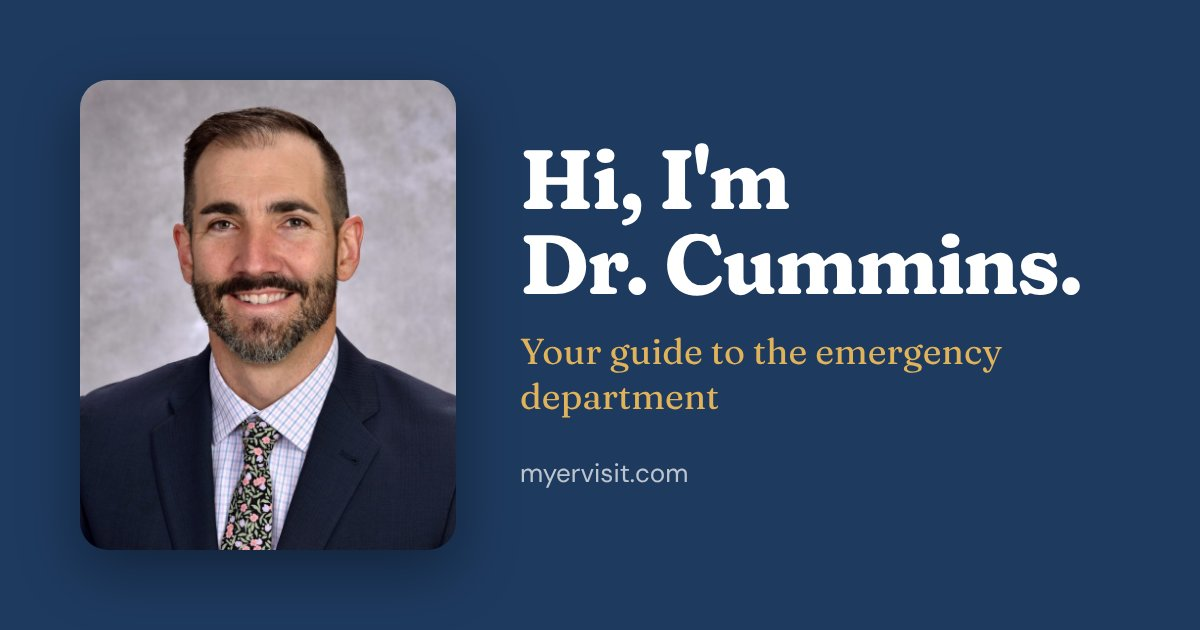
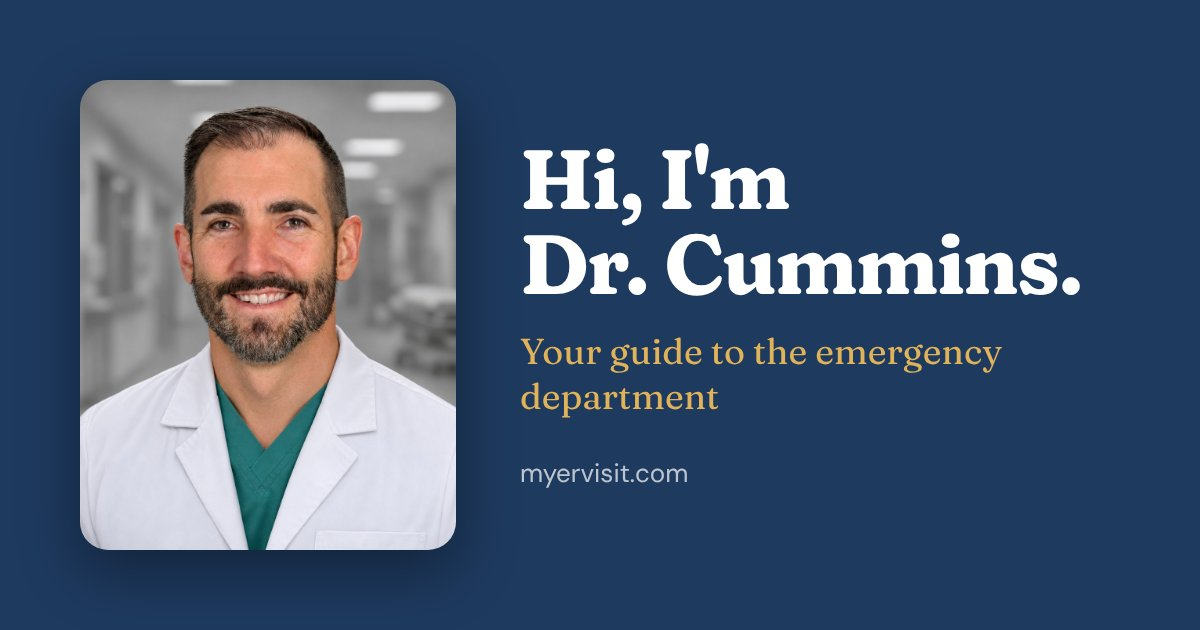
Use the scrubs photo on the homepage, About page and share image
Claude-Session: https://claude.ai/code/session_01RcUtLs95WB6qxETHrugdb3

Changed region(s): [[0.0617, 0.1206, 0.4008, 0.8746], [0.1542, 0.1206, 0.185, 0.1508]]

diff --git a/styles.css b/styles.css
@@ -1239,7 +1239,7 @@ p:last-child { margin-bottom: 0; }
 .hello { background: var(--navy); color: white; padding: 104px 0 56px; }
 .hello-inner { max-width: 1080px; margin: 0 auto; padding: 0 20px; display: grid; gap: 28px; }
 .hello-photo { margin: 0; border-radius: 22px; overflow: hidden; background: var(--navy-light); box-shadow: 0 18px 50px rgba(0,0,0,0.35); aspect-ratio: 4 / 5; max-height: 52vh; width: 100%; }
-.hello-photo img { width: 100%; height: 100%; object-fit: cover; object-position: center 18%; }
+.hello-photo img { width: 100%; height: 100%; object-fit: cover; object-position: center 12%; }
 .hello h1 { font-size: clamp(2.3rem, 9vw, 4rem); font-weight: 600; line-height: 1.05; letter-spacing: -0.02em; color: white; }
 .hello-lead { font-family: 'Fraunces', Georgia, serif; font-variation-settings: 'SOFT' 100; font-size: clamp(1.25rem, 5vw, 1.7rem); line-height: 1.3; color: var(--gold-light); margin: 12px 0 18px; }
 .hello-note { color: rgba(255,255,255,0.86); font-size: 1.05rem; line-height: 1.7; max-width: 34em; }

diff --git a/index.html b/index.html
@@ -64,8 +64,7 @@
   <section class="hello">
     <div class="hello-inner">
       <figure class="hello-photo">
-        <!-- PHOTO: swap this file for the scrub-top photo (portrait, at least 900px wide) -->
-        <img src="images/cummins-professional-photo.jpg" alt="Dr. Eric Cummins, emergency physician" width="768" height="960" fetchpriority="high" />
+        <img src="images/dr-cummins-scrubs.jpg" alt="Dr. Eric Cummins, emergency physician" width="960" height="1200" fetchpriority="high" />
       </figure>
       <div class="hello-text">
         <h1>Hi, I'm Dr. Cummins.</h1>

diff --git a/about.html b/about.html
@@ -65,8 +65,7 @@
 
       <div class="about-top">
         <figure class="hello-photo">
-          <!-- PHOTO: swap this file for the scrub-top photo -->
-          <img src="images/cummins-professional-photo.jpg" alt="Dr. Eric Cummins" width="768" height="960" />
+          <img src="images/dr-cummins-scrubs.jpg" alt="Dr. Eric Cummins" width="960" height="1200" />
         </figure>
         <dl class="about-facts">
           <dt>What I do</dt>
